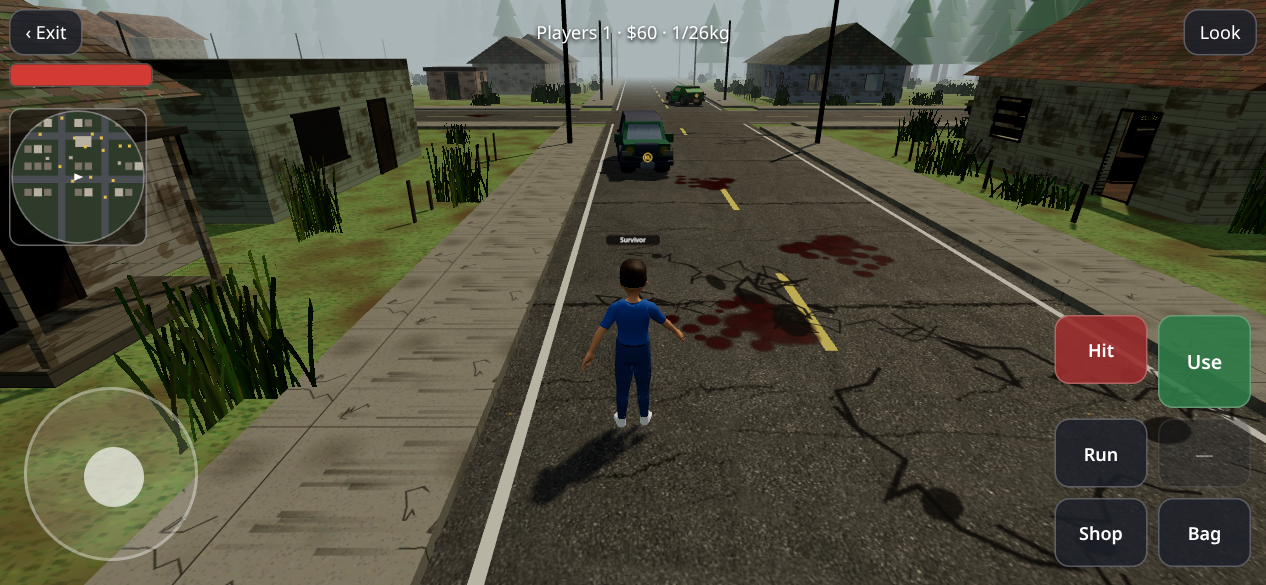
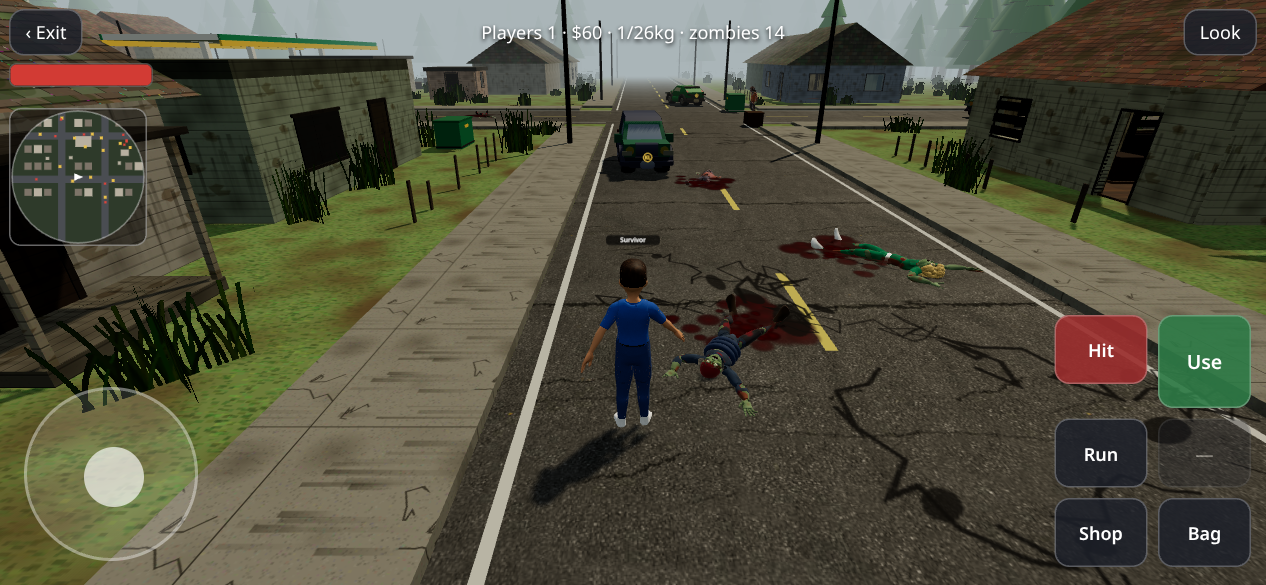
town: integrate props helper (gas pumps+fuel, loot spots, zombies, cars manager); zombie cull/shadow budget

diff --git a/src/mp/town/town.js b/src/mp/town/town.js
@@ -7,14 +7,15 @@ import { animate } from '../anim.js';
 import { Net } from '../net.js';
 import { buildTown, BOUNDS, CAR_SPAWNS, BODIES, SPAWN, CFG, SPECIAL } from './map.js';
 import { ITEMS, rollTable, Bag, DOOR_PRICE } from './loot.js';
-import { Car, loadCarModels, CAP } from './cars.js';
+import { Car, loadCarModels, createCars, CAP } from './cars.js';
+import { addGas, pumpNear, refuelCar, fillCan, PRICE } from './gas.js';
+import { addLoot, updateLoot } from './loot.js';
+import { createZombies, loadZombieModels } from './zombies.js';
 import { mulberry, angDiff, clamp } from './kit.js';
 import { hash } from './building.js';
 import { CSS, el, drawGauge } from './ui.js';
 
 function nameTag(text) { const c = document.createElement('canvas'); c.width = 256; c.height = 64; const g = c.getContext('2d'); g.fillStyle = '#000a'; g.roundRect ? g.roundRect(8, 10, 240, 44, 14) : g.rect(8, 10, 240, 44); g.fill(); g.fillStyle = '#fff'; g.font = '600 28px system-ui'; g.textAlign = 'center'; g.textBaseline = 'middle'; g.fillText(text.slice(0, 16), 128, 33); const t = new THREE.CanvasTexture(c); t.colorSpace = THREE.SRGBColorSpace; const s = new THREE.Sprite(new THREE.SpriteMaterial({ map: t, depthTest: false, transparent: true })); s.scale.set(.5, .125, 1); s.renderOrder = 20; return s; }
-const MODS = import.meta.glob(['./gas.js', './zombies.js']); // optional props modules (owned by the props helper)
-const tryImport = async (p) => { try { return MODS[p] ? await MODS[p]() : null; } catch (e) { console.warn('town module', p, e); return null; } };
 
 export async function enterTown({ look, onExit } = {}) {
   if (!document.getElementById('mpt-css')) document.head.append(el('style', { id: 'mpt-css' }, CSS));
@@ -35,17 +36,16 @@ export async function enterTown({ look, onExit } = {}) {
   scene.add(new THREE.HemisphereLight('#dfe8f0', '#59614a', 1.25)); const sun = new THREE.DirectionalLight('#ffeccc', 2.1); sun.position.set(36, 60, 28); sun.castShadow = true; sun.shadow.mapSize.set(2048, 2048); const sc = sun.shadow.camera; sc.left = sc.bottom = -34; sc.right = sc.top = 34; sc.near = 5; sc.far = 160; sun.shadow.bias = -.0006; sun.shadow.normalBias = .04; scene.add(sun, sun.target);
   const cam = new THREE.PerspectiveCamera(58, 1, .1, 320);
   // ---- world ----
-  const gasMod = await tryImport('./gas.js'); const hooks = []; if (gasMod && gasMod.addGas) hooks.push(gasMod.addGas);
-  const W = buildTown(scene, { hooks }); const col = W.col; const bag = new Bag(26); bag.add('cash', 60); bag.add('water', 1);
+  const W = buildTown(scene, { hooks: [addGas] }); addLoot(W); const col = W.col; const bag = new Bag(26); bag.add('cash', 60); bag.add('water', 1);
   const net = new Net('town'); net.me = { name: look.name || 'Survivor', look }; net.hello();
-  const models = await loadCarModels(); const cars = []; for (const s of CAR_SPAWNS) { const c = new Car(s, models); scene.add(c.g); cars.push(c); W.containers.push(c.cabin, c.trunk); }
+  const models = await loadCarModels(); const carMgr = createCars({ scene, W, models }); const cars = carMgr.cars; for (const c of cars) W.containers.push(c.cabin, c.trunk);
   const carBy = id => cars.find(c => c.id === id);
   const me = { av: null, x: SPAWN.x, z: SPAWN.z, ry: SPAWN.ry, sp: 0, drv: null, hp: 100, swing: 0, dead: 0, hitCd: 0 }; const remotes = new Map();
   const mkAvatar = async lk => { const tpl = await loadBase(lk.base); const av = new Avatar(tpl); dress(av, lk); return av; };
   me.av = await mkAvatar(look); scene.add(me.av.root); const myTag = nameTag(net.me.name); scene.add(myTag);
   // ---- bodies (persistent corpses, drawn by the zombies module if present) ----
-  const zm = await tryImport('./zombies.js'); let Z = null;
-  if (zm && zm.createZombies) Z = await zm.createZombies({ scene, W, camera: cam, models, bodies: BODIES, fogFar: FOG_FAR, getPlayers: () => [{ x: me.x, z: me.z, ry: me.ry, drv: !!me.drv, id: 'me' }, ...[...remotes.values()].map(r => ({ x: r.x, z: r.z, id: r.id, drv: false }))], onHitPlayer: (dmg, from) => hurt(dmg, from), onNoise: null });
+  let Z = null; { const zmodels = await loadZombieModels(); Z = createZombies({ scene, W, camera: cam, models: zmodels, getPlayers: () => [{ x: me.x, z: me.z, ry: me.ry, drv: !!me.drv, id: 'me' }, ...[...remotes.values()].filter(r => r.av).map(r => ({ x: r.x, z: r.z, id: r.id, drv: false }))], onHitPlayer: (dmg) => hurt(dmg) }); }
+  for (const b of BODIES) { const z = Z.spawnAt(b.x, b.z, {}); Z.killNear(b.x, b.z, .5, 9999); z.root.rotation.y = b.ry; z.mixer.update(5); z.deadT = 99; if (z.pool) z.pool.scale.setScalar(1.3); } // persistent corpses from the start
   // ---- toasts / hurt ----
   let toastT = 0; const toast = (m, s = 1.8) => { toastEl.textContent = m; toastEl.style.opacity = 1; toastT = s; };
   const hurt = (dmg) => { if (me.dead) return; me.hp = Math.max(0, me.hp - dmg); vig.style.opacity = 1; setTimeout(() => vig.style.opacity = 0, 180); if (me.hp <= 0) die(); };
@@ -60,7 +60,7 @@ export async function enterTown({ look, onExit } = {}) {
   const lootOf = c => { if (!c.items) { const r = mulberry(hash(c.id)); c.items = rollTable(c.table, r); } return c.items; };
   const setLooted = (c, left, fromNet) => { if (left) c.items = left; c.looted = true; if (c.lid) c.opening = 1; if (!fromNet) net.evt({ t: 'loot', id: c.id, left: c.items }); };
   // ---- noise / alerting zombies ----
-  const noise = (x, z, r) => { Z && Z.noise && Z.noise(x, z, r); };
+  const noise = (x, z, r) => { Z && Z.noise && Z.noise(x, z, r); }; // (zombies.js has no noise hook yet)
   // ---- cars ----
   const enterCar = car => { if (me.dead) return; car.driver = 'me'; me.drv = car; car.net = null; if (car.fuel > 0) { car.engine = true; car.stalled = false; toast('Engine started'); } else toast('Out of fuel!', 2.4); car.lastSend = 0; };
   const exitCar = (silent) => { const c = me.drv; if (!c) return; c.driver = null; c.engine = false; me.drv = null; const s = Math.sin(c.ry), cc = Math.cos(c.ry); const sides = [[cc, -s], [-cc, s]]; for (const [dx, dz] of sides) { const nx = c.x + dx * 2.3, nz = c.z + dz * 2.3; if (!col.hit(nx, nz, .4)) { me.x = nx; me.z = nz; break; } } net.car(Object.assign(c.netState(), { engine: 0, off: 1 })); };
@@ -82,9 +82,9 @@ export async function enterTown({ look, onExit } = {}) {
   const openLoot = c => { panelKind = 'loot'; panelCtx = c; lootOf(c); panel.style.display = 'flex'; renderPanel(); c.opening = 1; };
   bag.onChange = () => { if (panelKind) renderPanel(); };
   // ---- interactions ----
-  const hold = { act: null, t: 0 };
+  const hold = { act: null, t: 0 }; let payDebt = 0; const nearestCar = r => { let b = null, bd = r; for (const c of cars) { const d = Math.hypot(c.x - me.x, c.z - me.z); if (d < bd) { bd = d; b = c; } } return b; };
   function gather() { const L = []; const px = me.x, pz = me.z;
-    if (me.drv) { L.push({ label: 'Exit car', pri: 0, run: () => exitCar() }); return L; }
+    if (me.drv) { L.push({ label: 'Exit car', pri: 0, d: 0, run: () => exitCar() }); { const car = me.drv, pump = pumpNear(W, px, pz, 3.6); if (pump && car.fuel < CAP - .5 && Math.abs(car.v) < .8 && bag.count('cash')) L.push({ label: `Fuel up ($${PRICE.toFixed(2)}/L)`, d: 1, alt: 1, dur: 1.6, run: () => { const n = refuelCar(pump, car, 1.6, { pay: cost => { payDebt += cost; while (payDebt >= 1) { if (!bag.remove('cash', 1)) { payDebt = 0; toast('Out of cash'); return false; } payDebt -= 1; } return true; } }); toast(n > 0 ? `+${n.toFixed(0)} L fuel` : 'Cannot fuel'); } }); } return L; }
     for (const D of W.doors) { if (!D.installed) continue; const d = Math.hypot(D.x - px, D.z - pz); if (d > 1.9) continue; if (D.state === 'closed') L.push({ label: 'Open door', d, run: () => setDoor(D, 'open') }); else if (D.state === 'open') L.push({ label: 'Close door', d, run: () => { if (occupiedAt(D.x, D.z, .8)) toast('Something is in the way'); else setDoor(D, 'close'); } }); else if (D.state === 'locked') L.push({ label: bag.hasPry() ? 'Pry door open' : 'Kick door open', d, dur: bag.hasPry() ? 1.1 : 2.4, run: () => { setDoor(D, 'break'); noise(D.x, D.z, 30); toast('Door gives way'); } }); }
     for (const c of W.containers) { if (c.looted) continue; if (c.car) { const car = c.car; const dd = Math.hypot(c.x - px, c.z - pz); if (dd > c.reach) continue; if (car.driver) continue; if (!car.broken && !(c.need === 'trunk' && bag.hasPry())) continue; L.push({ label: 'Search ' + c.label.toLowerCase(), d: dd + (c.need === 'trunk' ? .3 : 0) + .4, dur: .9, run: () => openLoot(c) }); continue; }
       const d = Math.hypot(c.x - px, c.z - pz); if (d > c.reach) continue; L.push({ label: 'Search ' + c.label.toLowerCase(), d, dur: .8, run: () => openLoot(c) }); }
@@ -93,7 +93,9 @@ export async function enterTown({ look, onExit } = {}) {
       else L.push({ label: car.fuel > 0 ? 'Enter ' + car.kind + ' (KL)' : 'Enter car (no fuel)', d: d - .8, run: () => enterCar(car) });
       if (car.broken && bag.count('gascan') && car.fuel < CAP - 4.5) L.push({ label: 'Pour gas can in tank', d: d + .1, alt: 1, dur: 1.5, run: () => { bag.remove('gascan'); bag.add('emptycan'); car.fuel = Math.min(CAP, car.fuel + 5); toast('+5 L fuel'); } });
       if (bag.count('emptycan') && car.fuel >= 5) L.push({ label: 'Siphon gas (' + Math.floor(car.fuel) + ' L left)', d: d + .2, alt: 1, dur: 2, run: () => { bag.remove('emptycan'); bag.add('gascan'); car.fuel -= 5; toast('Siphoned 5 L'); } }); }
-    for (const p of (W.pumps || [])) { const d = Math.hypot(p.x - px, p.z - pz); if (d < 1.6 && p.fuel >= 5 && bag.count('emptycan')) L.push({ label: 'Siphon pump (' + p.fuel + ' L)', d, alt: 1, dur: 2, run: () => { bag.remove('emptycan'); bag.add('gascan'); p.fuel -= 5; toast('Filled a gas can'); } }); }
+    { const pump = pumpNear(W, px, pz, 3.4); if (pump) { const car = nearestCar(5.5); const cashOk = bag.count('cash') > 0; const pay = cost => { payDebt += cost; while (payDebt >= 1) { if (!bag.remove('cash', 1)) { payDebt = 0; toast('Out of cash'); return false; } payDebt -= 1; } return true; };
+        if (car && car.fuel < CAP - .5 && Math.abs(car.v) < .8 && cashOk) L.push({ label: `Fuel up ${car.kind} ($${PRICE.toFixed(2)}/L)`, d: 2.5, alt: 1, dur: 1.6, run: () => { const n = refuelCar(pump, car, 1.6, { pay }); toast(n > 0 ? `+${n.toFixed(0)} L fuel` : 'Cannot fuel'); } });
+        if (bag.count('emptycan') && cashOk) L.push({ label: 'Fill gas can (5 L)', d: 2.6, alt: 1, dur: 1.4, run: () => { toast(fillCan(pump, bag, { pay }) ? 'Gas can filled' : 'Cannot fill'); } }); } }
     L.sort((a, b) => (a.d ?? 9) - (b.d ?? 9)); return L; }
   let acts = [];
   // ---- combat ----
@@ -108,7 +110,7 @@ export async function enterTown({ look, onExit } = {}) {
   const mini = miniC.getContext('2d'); const MS = 184 / 150; // minimap: 150 m window around the player
   function drawMini() { const g = mini; g.clearRect(0, 0, 184, 184); g.save(); g.beginPath(); g.arc(92, 92, 90, 0, 7); g.clip(); g.fillStyle = '#2e3a2a'; g.fillRect(0, 0, 184, 184); const X = x => 92 + (x - me.x) * MS, Z2 = z => 92 + (z - me.z) * MS; g.fillStyle = '#4a4d52'; for (const z of [-24, 24]) g.fillRect(0, Z2(z) - 4 * MS, 184, 8 * MS); for (const x of [-24, 24]) g.fillRect(X(x) - 4 * MS, 0, 8 * MS, 184);
     g.fillStyle = '#b8b0a0'; for (const b of W.buildings) g.fillRect(X(b.rect.x0), Z2(b.rect.z0), (b.rect.x1 - b.rect.x0) * MS, (b.rect.z1 - b.rect.z0) * MS); g.fillStyle = '#7d7468'; for (const l of W.lots) if (!l.enterable) g.fillRect(X(l.cx) - 4 * MS, Z2(l.cz) - 4 * MS, 8 * MS, 8 * MS);
-    g.fillStyle = '#e8c04a'; for (const c of cars) g.fillRect(X(c.x) - 2, Z2(c.z) - 2, 4, 4); if (Z && Z.list) { g.fillStyle = '#e0443a'; for (const z of Z.list()) { if (z.dead) continue; g.fillRect(X(z.x) - 1.5, Z2(z.z) - 1.5, 3, 3); } } g.fillStyle = '#6ac7ff'; for (const r of remotes.values()) g.fillRect(X(r.x) - 2.5, Z2(r.z) - 2.5, 5, 5);
+    g.fillStyle = '#e8c04a'; for (const c of cars) g.fillRect(X(c.x) - 2, Z2(c.z) - 2, 4, 4); if (Z) { g.fillStyle = '#e0443a'; for (const z of Z.zombies) { if (z.dead) continue; const p = z.root.position; g.fillRect(X(p.x) - 1.5, Z2(p.z) - 1.5, 3, 3); } } g.fillStyle = '#6ac7ff'; for (const r of remotes.values()) g.fillRect(X(r.x) - 2.5, Z2(r.z) - 2.5, 5, 5);
     g.restore(); g.fillStyle = '#fff'; g.save(); g.translate(92, 92); g.rotate(-me.ry + Math.PI); g.beginPath(); g.moveTo(0, -7); g.lineTo(5, 5); g.lineTo(-5, 5); g.fill(); g.restore(); g.strokeStyle = '#fff6'; g.lineWidth = 2; g.beginPath(); g.arc(92, 92, 90, 0, 7); g.stroke(); }
   const insideB = (x, z) => { for (const b of W.buildings) { const r = b.rect; if (x > r.x0 - .1 && x < r.x1 + .1 && z > r.z0 - .1 && z < r.z1 + .1) return b; } return null; };
   function frame(now) {
@@ -145,14 +147,14 @@ export async function enterTown({ look, onExit } = {}) {
     for (const [id, p] of net.peers) { const r = remotes.get(id); if (!r || !r.av || !p.s) continue; const s = p.s; r.x += (s.x - r.x) * Math.min(1, dt * 10); r.z += (s.z - r.z) * Math.min(1, dt * 10); r.ry += angDiff(r.ry, s.ry) * Math.min(1, dt * 10); r.sp += ((s.sp || 0) - r.sp) * Math.min(1, dt * 8); r.av.root.visible = !s.drv; r.av.root.position.set(r.x, 0, r.z); r.av.root.rotation.y = r.ry; animate(r.av, t + id.length, r.sp); r.tag.position.set(r.x, 1.95, r.z); r.tag.visible = !s.drv; }
     stAcc += dt; if (stAcc > .08) { stAcc = 0; net.state({ x: me.x, z: me.z, ry: me.ry, sp: me.sp, drv: c ? 1 : 0 }); }
     // zombies / nav
-    navAcc += dt; if (navAcc > .45) { navAcc = 0; W.nav.field(me.x, me.z); } if (Z) Z.update(dt, t);
+    navAcc += dt; if (navAcc > .45) { navAcc = 0; W.nav.field(me.x, me.z); } if (Z) { Z.update(dt, t); for (const z of Z.zombies) { const zd = Math.hypot(z.root.position.x - me.x, z.root.position.z - me.z); if (z.dead) z.root.visible = zd < 45; const sh = zd < 22; if (z._sh !== sh) { z._sh = sh; z.root.traverse(o => { if (o.isMesh) o.castShadow = sh; }); } if (!z._fc) { z._fc = 1; z.root.traverse(o => { if (o.isSkinnedMesh) { o.frustumCulled = true; o.geometry.computeBoundingSphere(); o.geometry.boundingSphere.radius *= 1.6; } }); } } } updateLoot(W, dt);
     // roofs + camera
     const inb = insideB(me.x, me.z); for (const b of W.buildings) if (b.roof) b.roof.visible = b !== inb; W.closed.update(me.x, me.z);
     const tgt = new THREE.Vector3(me.x, c ? 1.5 : 1.45, me.z); const pitch = c ? .36 : inb ? Math.max(camPitch, .85) : camPitch; const dd = c ? 8.6 : inb ? 5.2 : camDist; const yawEff = c ? me.ry : camYaw; if (c) camYaw = me.ry;
     const want = new THREE.Vector3(tgt.x - Math.sin(yawEff) * Math.cos(pitch) * dd, tgt.y + Math.sin(pitch) * dd, tgt.z - Math.cos(yawEff) * Math.cos(pitch) * dd); if (!camInit) { camPos.copy(want); camInit = true; } camPos.lerp(want, Math.min(1, dt * (c ? 5 : 9))); cam.position.copy(camPos); cam.lookAt(tgt);
     sun.position.set(me.x + 36, 60, me.z + 28); sun.target.position.set(me.x, 0, me.z); sun.target.updateMatrixWorld();
     // HUD
-    hpBar.firstChild.style.width = me.hp + '%'; info.textContent = `Players ${net.peers.size + 1} · $${bag.count('cash')} · ${bag.weight.toFixed(0)}/${bag.cap}kg` + (Z && Z.stats ? ` · zombies ${Z.stats().alive}` : '');
+    hpBar.firstChild.style.width = me.hp + '%'; info.textContent = `Players ${net.peers.size + 1} · $${bag.count('cash')} · ${bag.weight.toFixed(0)}/${bag.cap}kg` + (Z ? ` · zombies ${Z.stats.alive}` : '');
     if (c) { gaugeC.style.display = 'block'; drawGauge(gaugeC, c.fuelFrac, Math.abs(c.v) * 3.6, c.fuelFrac < .15, t); } else gaugeC.style.display = 'none';
     minAcc += dt; if (minAcc > .12) { minAcc = 0; drawMini(); }
     tip.textContent = me.dead > 0 ? '' : c ? (c.fuel <= 0 ? 'Out of fuel: get out and find a gas can' : 'Stick: gas / steer · Brake button · Exit to leave') : '';
